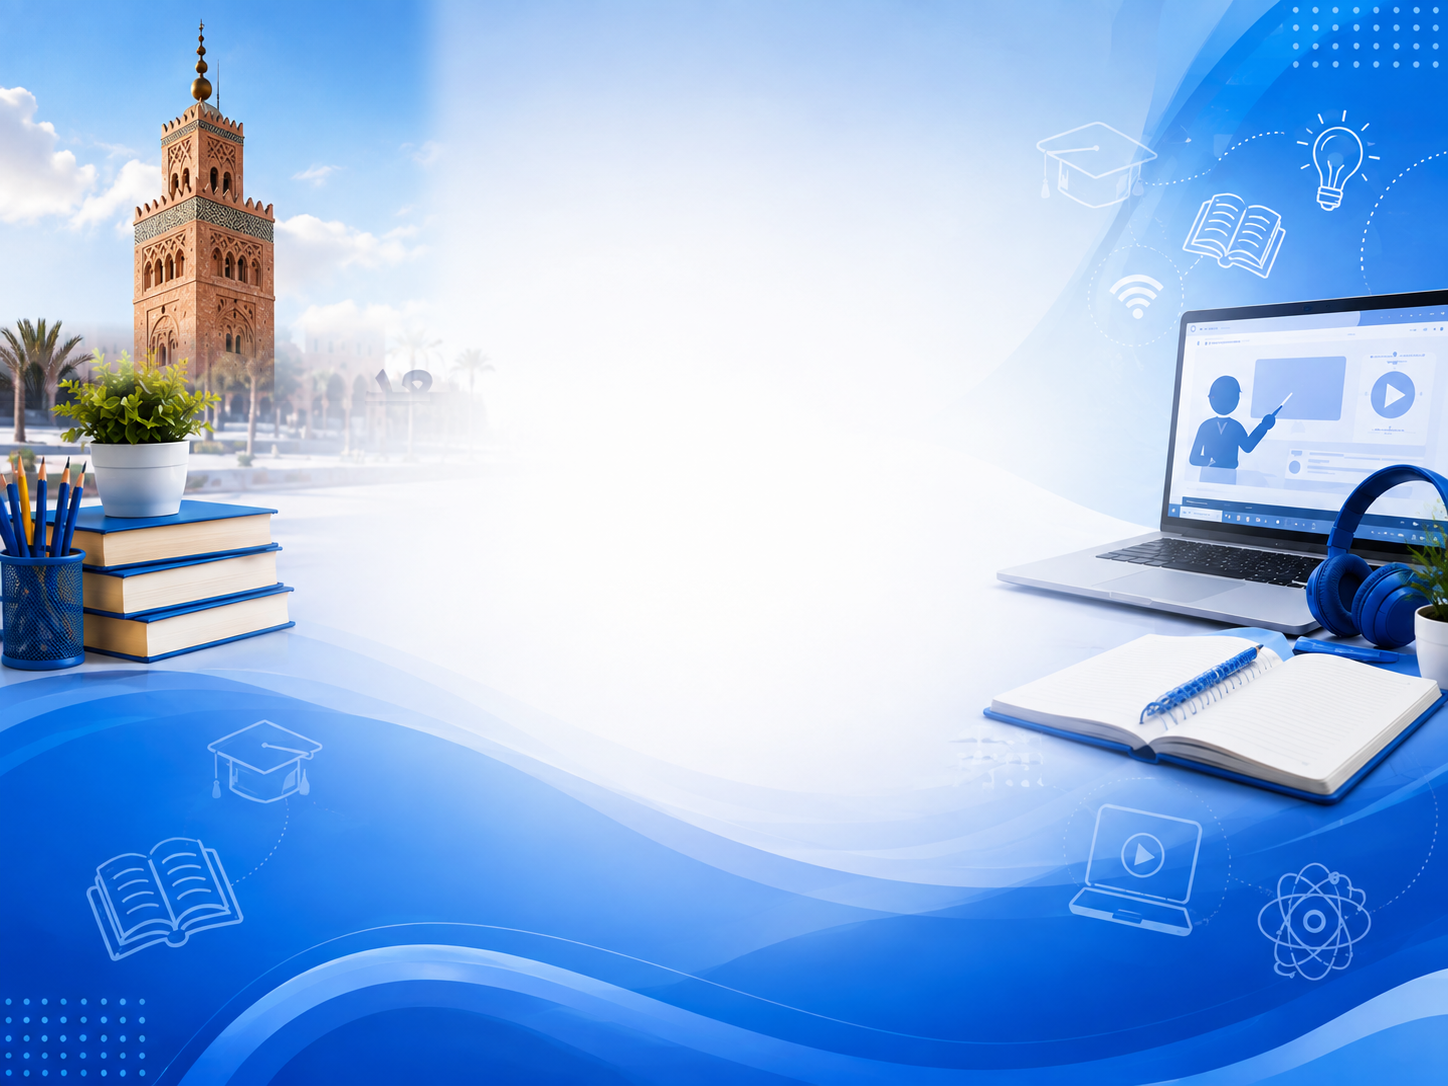
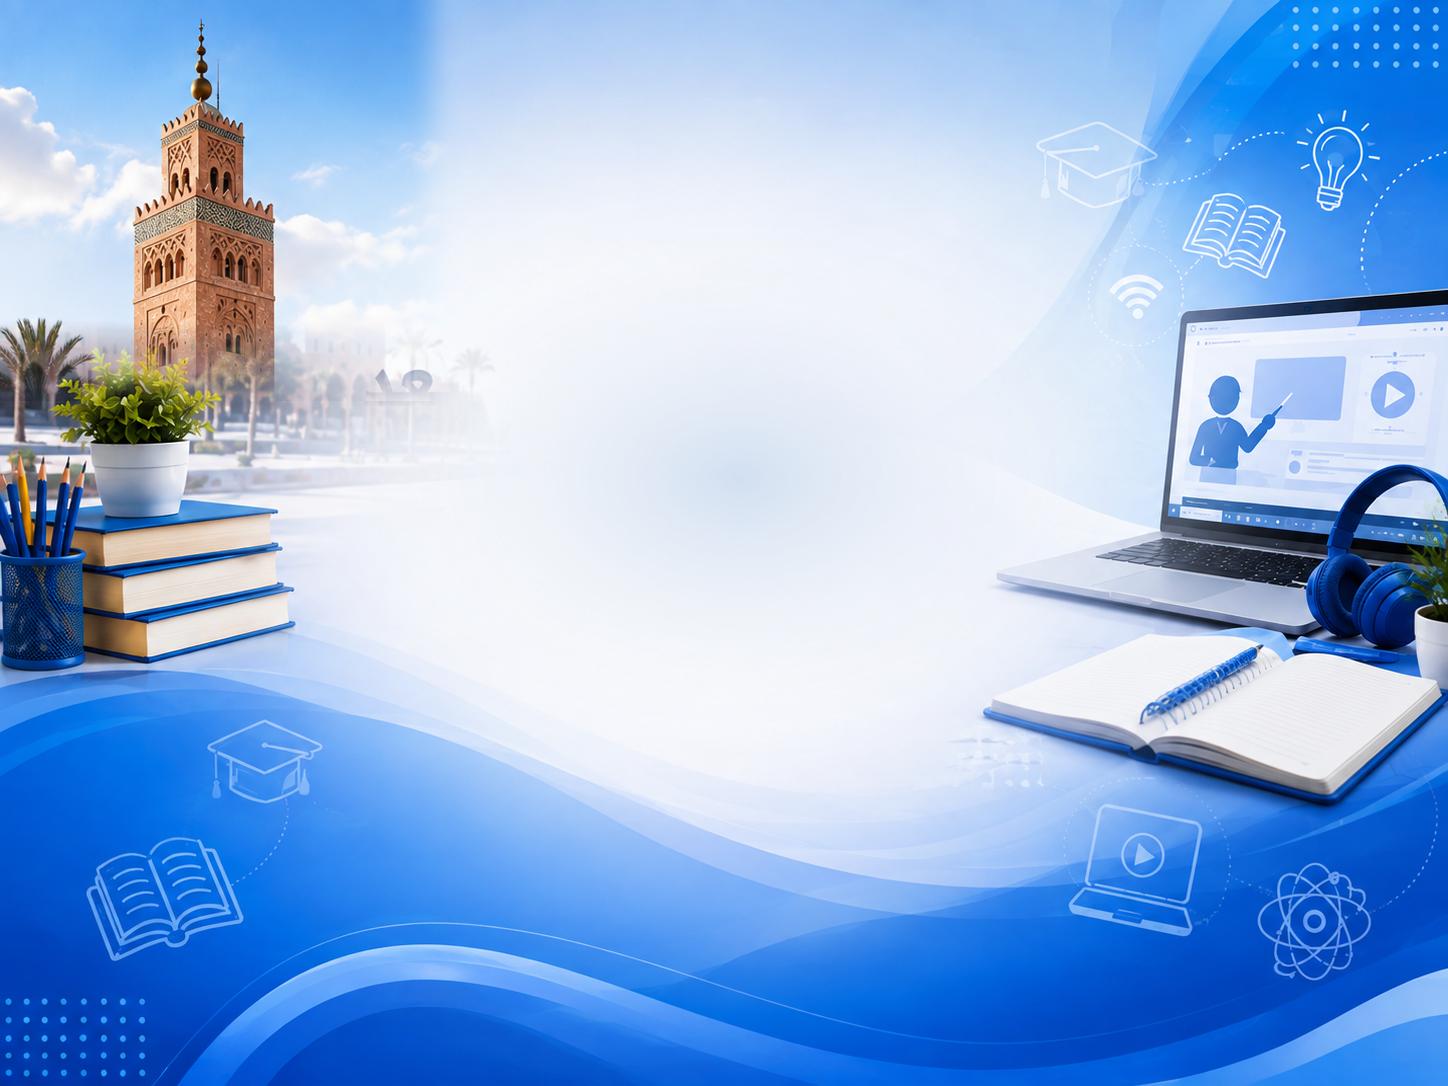
Refine login page background and title

Changed region(s): [[0.404, 0.3646, 0.5905, 0.5166]]

diff --git a/frontend/src/pages/Login.tsx b/frontend/src/pages/Login.tsx
@@ -42,7 +42,7 @@ export default function Login() {
               className="w-32 h-32 object-contain rounded-2xl bg-white shadow-lg p-2"
             />
           </div>
-          <h1 className="text-3xl md:text-4xl font-extrabold text-[#0b2d63] drop-shadow-sm">
+          <h1 className="text-3xl md:text-3xl font-extrabold text-[#0b2d63] drop-shadow-sm whitespace-nowrap">
             منصة الدعم التربوي عن بعد
           </h1>
           <div className="text-lg md:text-xl font-bold text-[#0757c9] mt-2 space-y-1">
